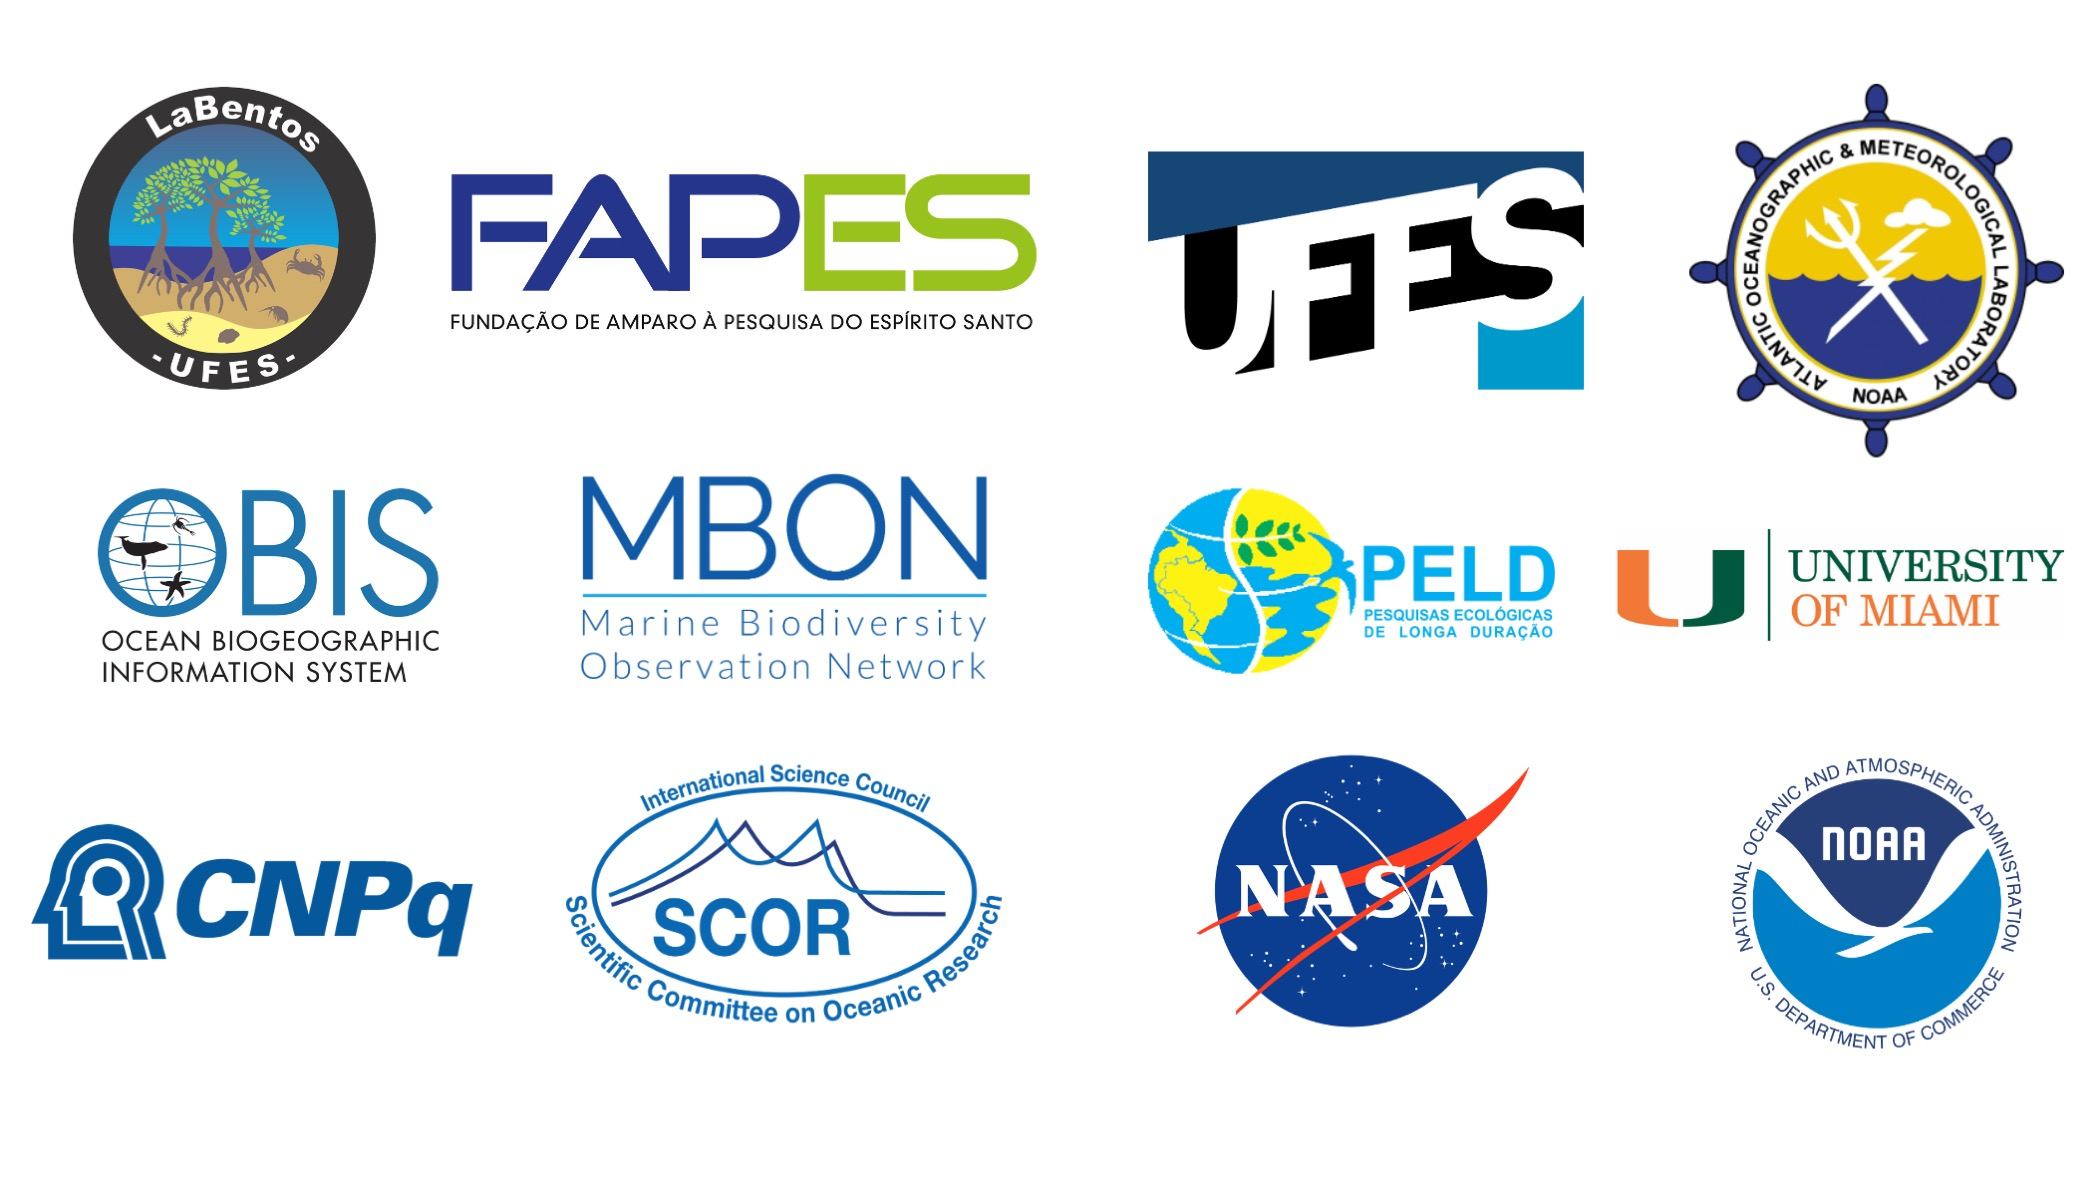
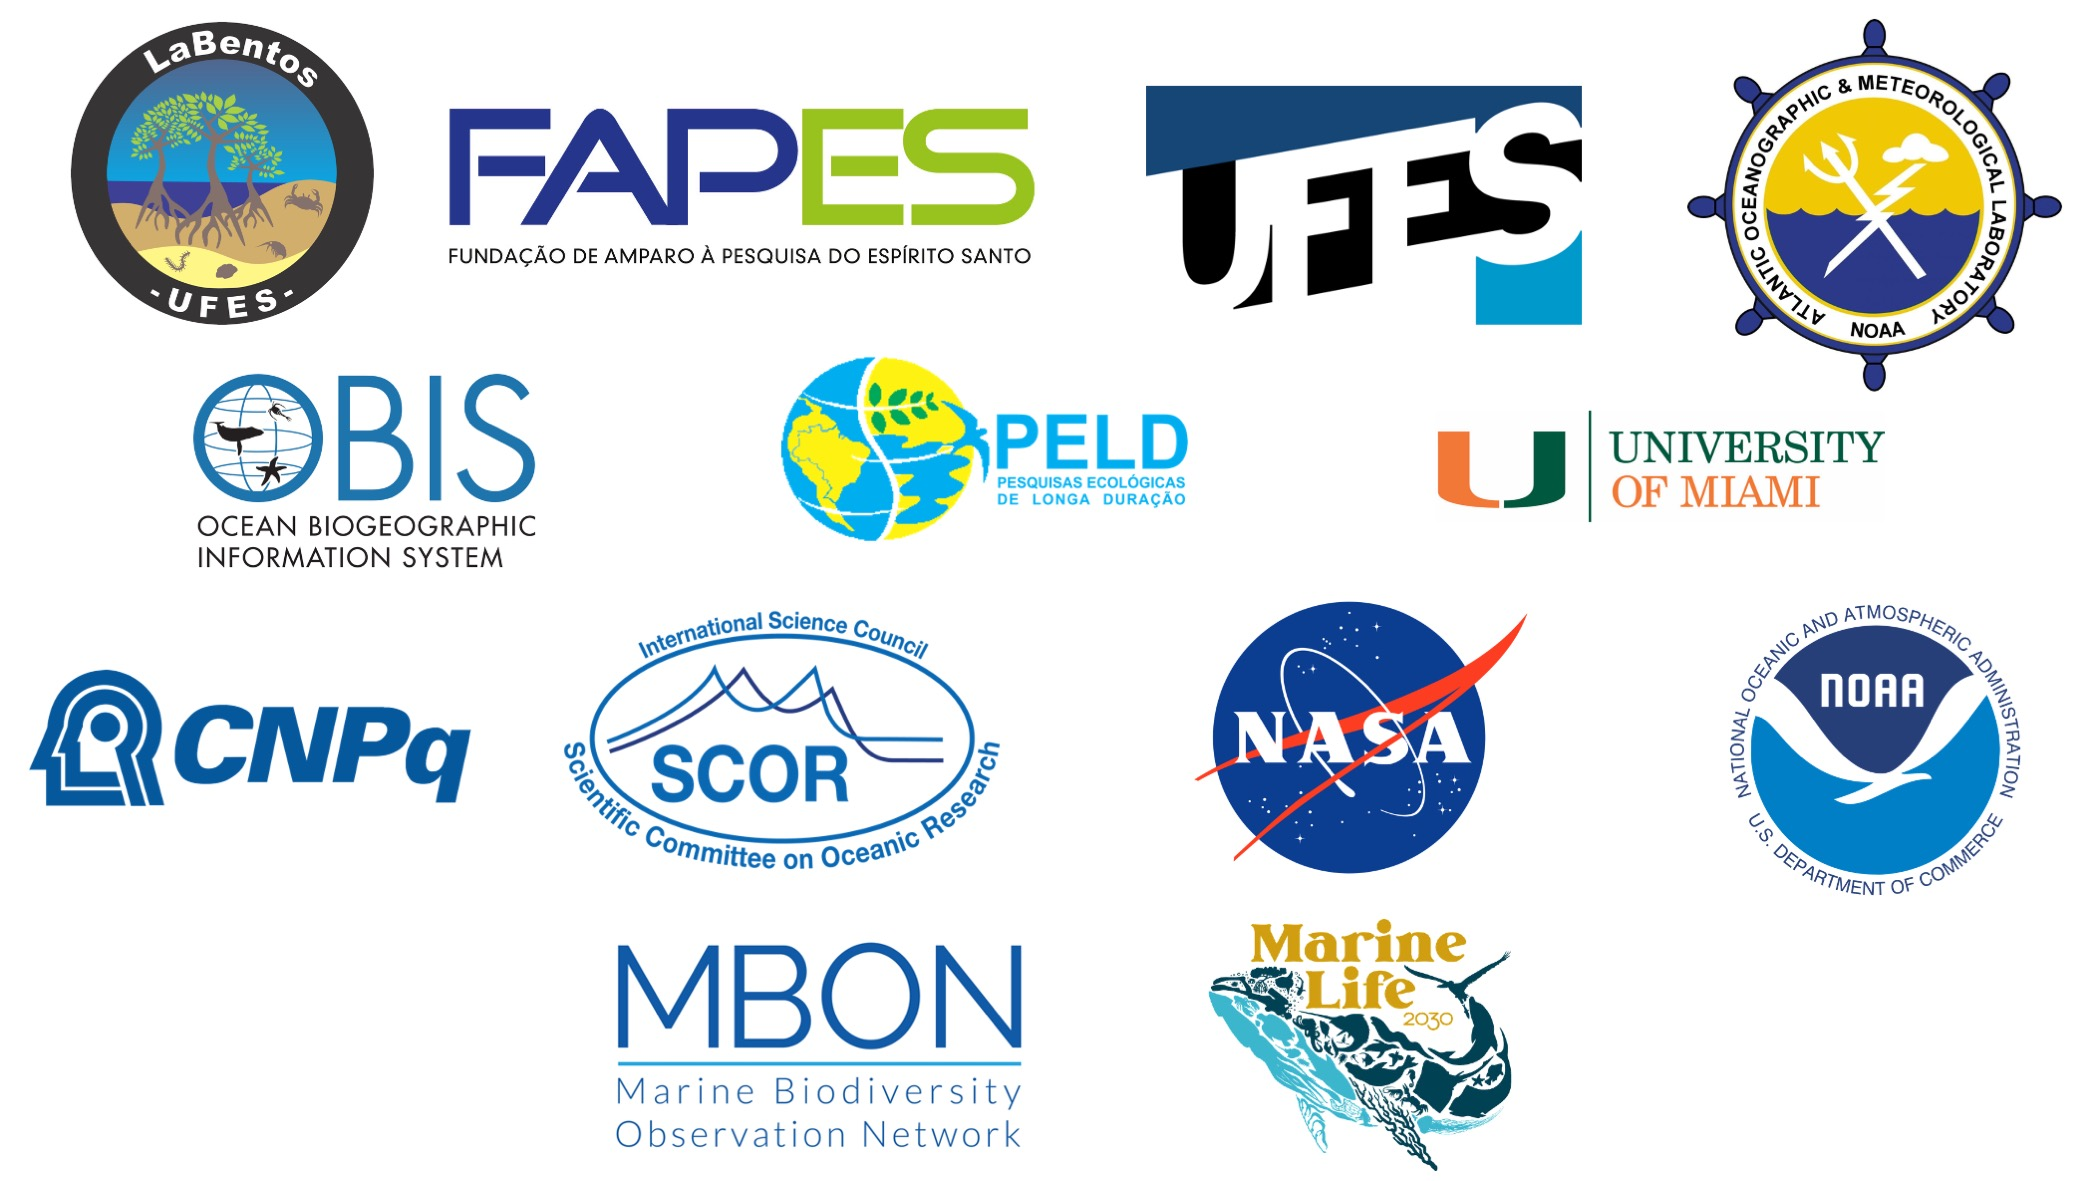
added new figure to Home page

diff --git a/docs/index.html b/docs/index.html
@@ -303,7 +303,11 @@ $(document).ready(function () {
 <div id="gestão-de-dados-de-monitoramento-costeiro"
 class="section level2">
 <h2><strong>Gestão de dados de monitoramento costeiro</strong></h2>
+</body>
+<p><img src="images/image-site.png" width="1000px"/></p>
 <body>
+<body>
+<p><br></p>
 <h3>
 <p>À medida que enfrentamos os desafios presentes e futuros da
 sustentabilidade, os observatórios do Oceano têm produzido uma grande
